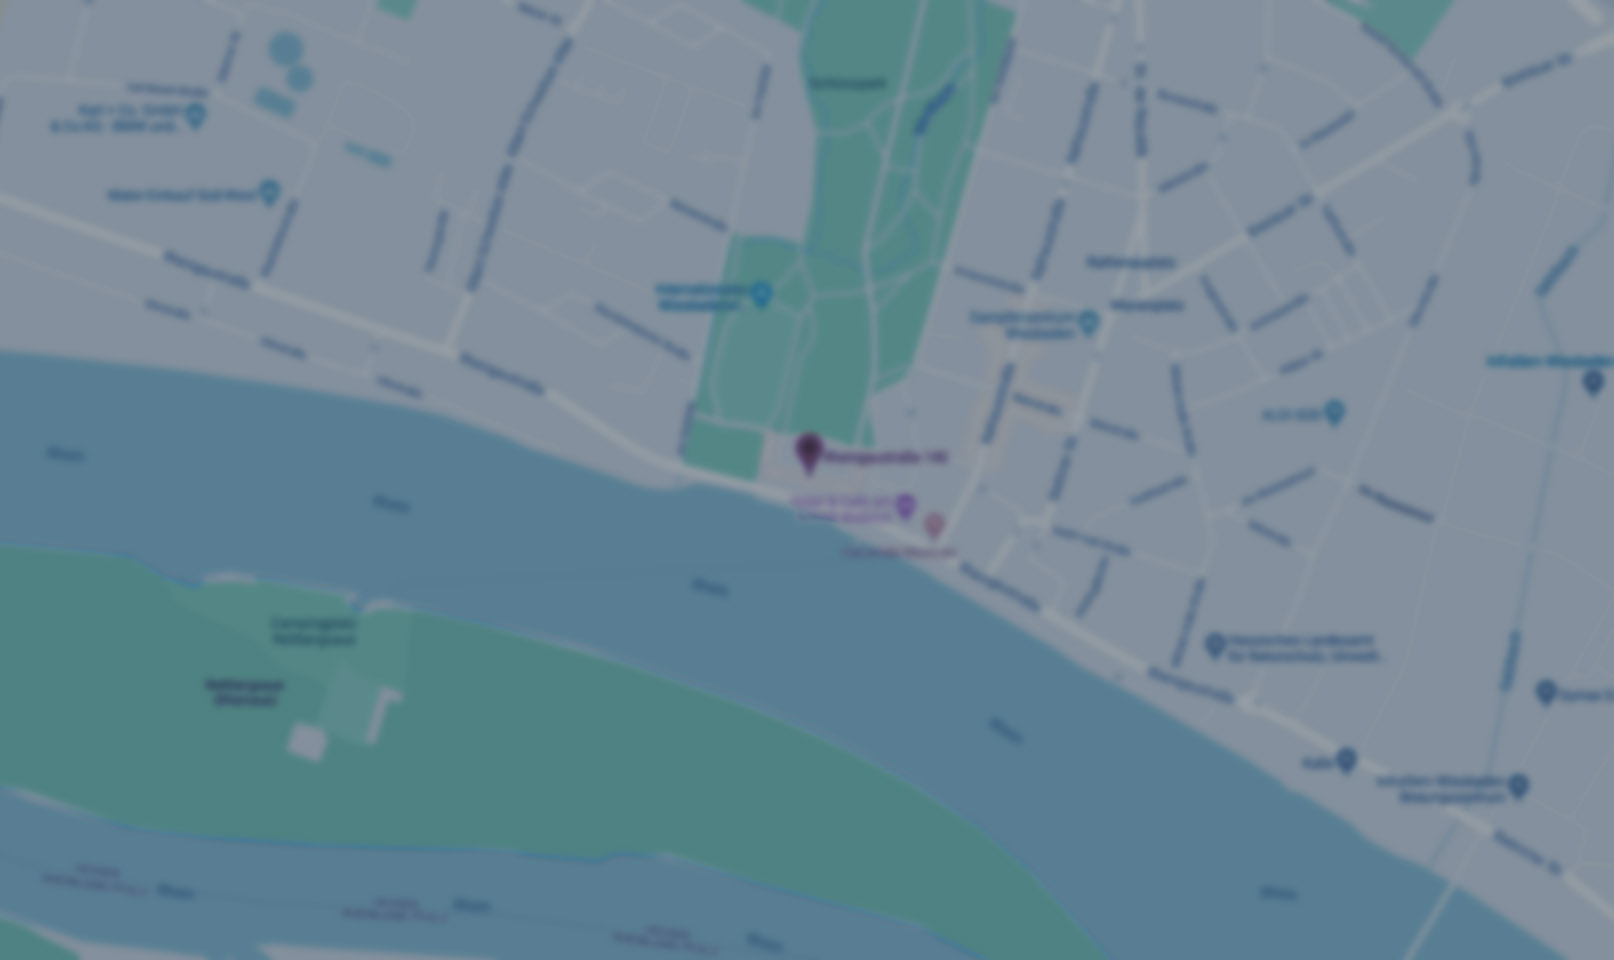
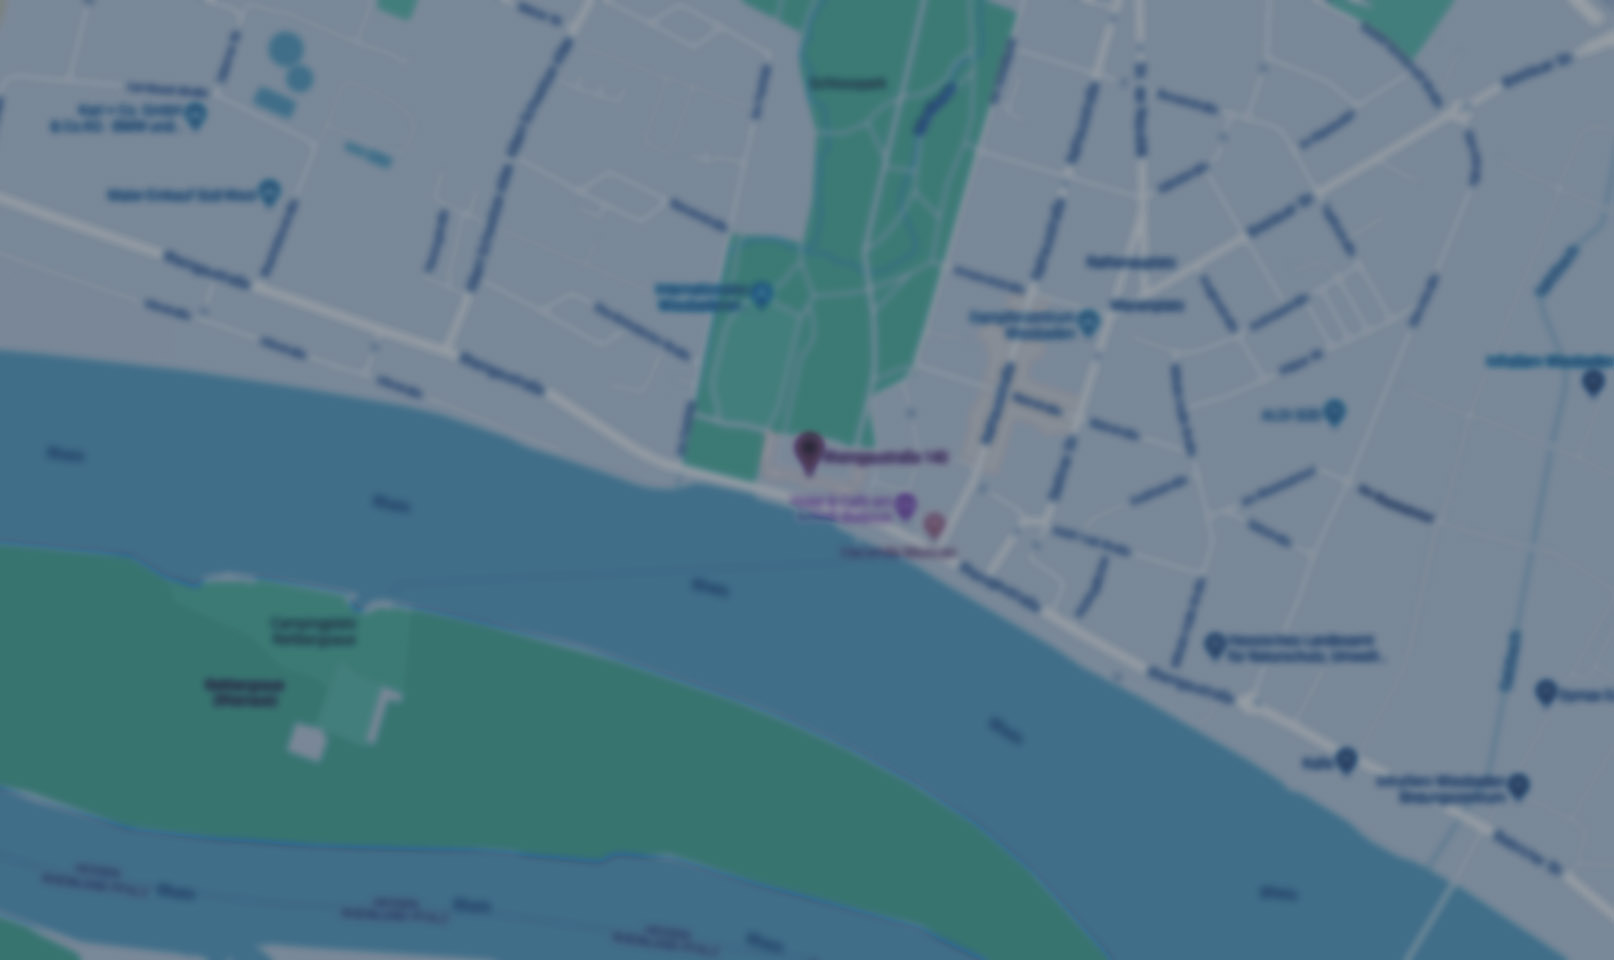
Karte schatten socialmediabuttons

diff --git a/stylesheet.css b/stylesheet.css
@@ -331,8 +331,10 @@ navbar ul li a.active {opacity:1}
 		background-repeat: no-repeat;
 		background-size: cover;
 		padding-top: 80px;
-		padding-bottom:80px;
-		box-shadow: inset 1px 39px 43px -38px rgba(0,0,0,0.69);
+		padding-bottom: 80px;
+		-webkit-box-shadow: inset 0 15px 20px 0px rgba(0, 0, 0, 0.57);
+        -moz-box-shadow: inset 0 15px 20px 0px rgba(0, 0, 0, 0.57);
+		box-shadow: inset 0 15px 20px 0px rgba(0, 0, 0, 0.57);
 	}
 	.parallax-blur-short{
 		/* The image used */
@@ -348,7 +350,9 @@ navbar ul li a.active {opacity:1}
 		background-size: cover;
 		padding-top: 0px;
 		padding-bottom: 80px;
-		box-shadow: inset 1px -34px 43px -38px rgba(0,0,0,0.69);
+	    -webkit-box-shadow: inset 0px -34px 43px -38px rgba(0,0,0,0.69);
+        -moz-box-shadow: inset 0px -34px 43px -38px rgba(0,0,0,0.69);
+		box-shadow: inset 0px -34px 43px -38px rgba(0,0,0,0.69);
 	}
 
 	.parallax-map-blur {
@@ -364,6 +368,9 @@ navbar ul li a.active {opacity:1}
 		background-repeat: no-repeat;
 		background-size: cover;
 		padding: 30px;
+		-webkit-box-shadow: inset 0px 38px 37px -33px rgba(0,0,0,0.69);
+        -moz-box-shadow: inset 0px 38px 37px -33px rgba(0,0,0,0.69);
+		box-shadow: inset 0px 38px 37px -33px rgba(0,0,0,0.69);
 	}
 
 
@@ -398,16 +405,30 @@ navbar ul li a.active {opacity:1}
   flex-direction: column;
   justify-content: space-between;
 }
+#Kontakt h2, #Kontakt p {
+	color: white;
+}
 
 .socialmedia img {
   width:56px;
   margin-right: 10px;
+  opacity: 0.5;
 }
+
+.socialmedia img:hover {
+	opacity:1;
+}
+
 iframe {
   border: none;
   flex:1 1 680px;
   min-height: 300px;
+  -webkit-box-shadow: 0px 7px 18px 0px rgba(0, 0, 0, 0.57);
+  -moz-box-shadow: 0px 7px 18px 0px rgba(0, 0, 0, 0.57);
+  box-shadow: 0px 7px 18px 0px rgba(0, 0, 0, 0.57);
 }
+
+
 /*CSS Code für den Kontakt -Ende*/
 
 
